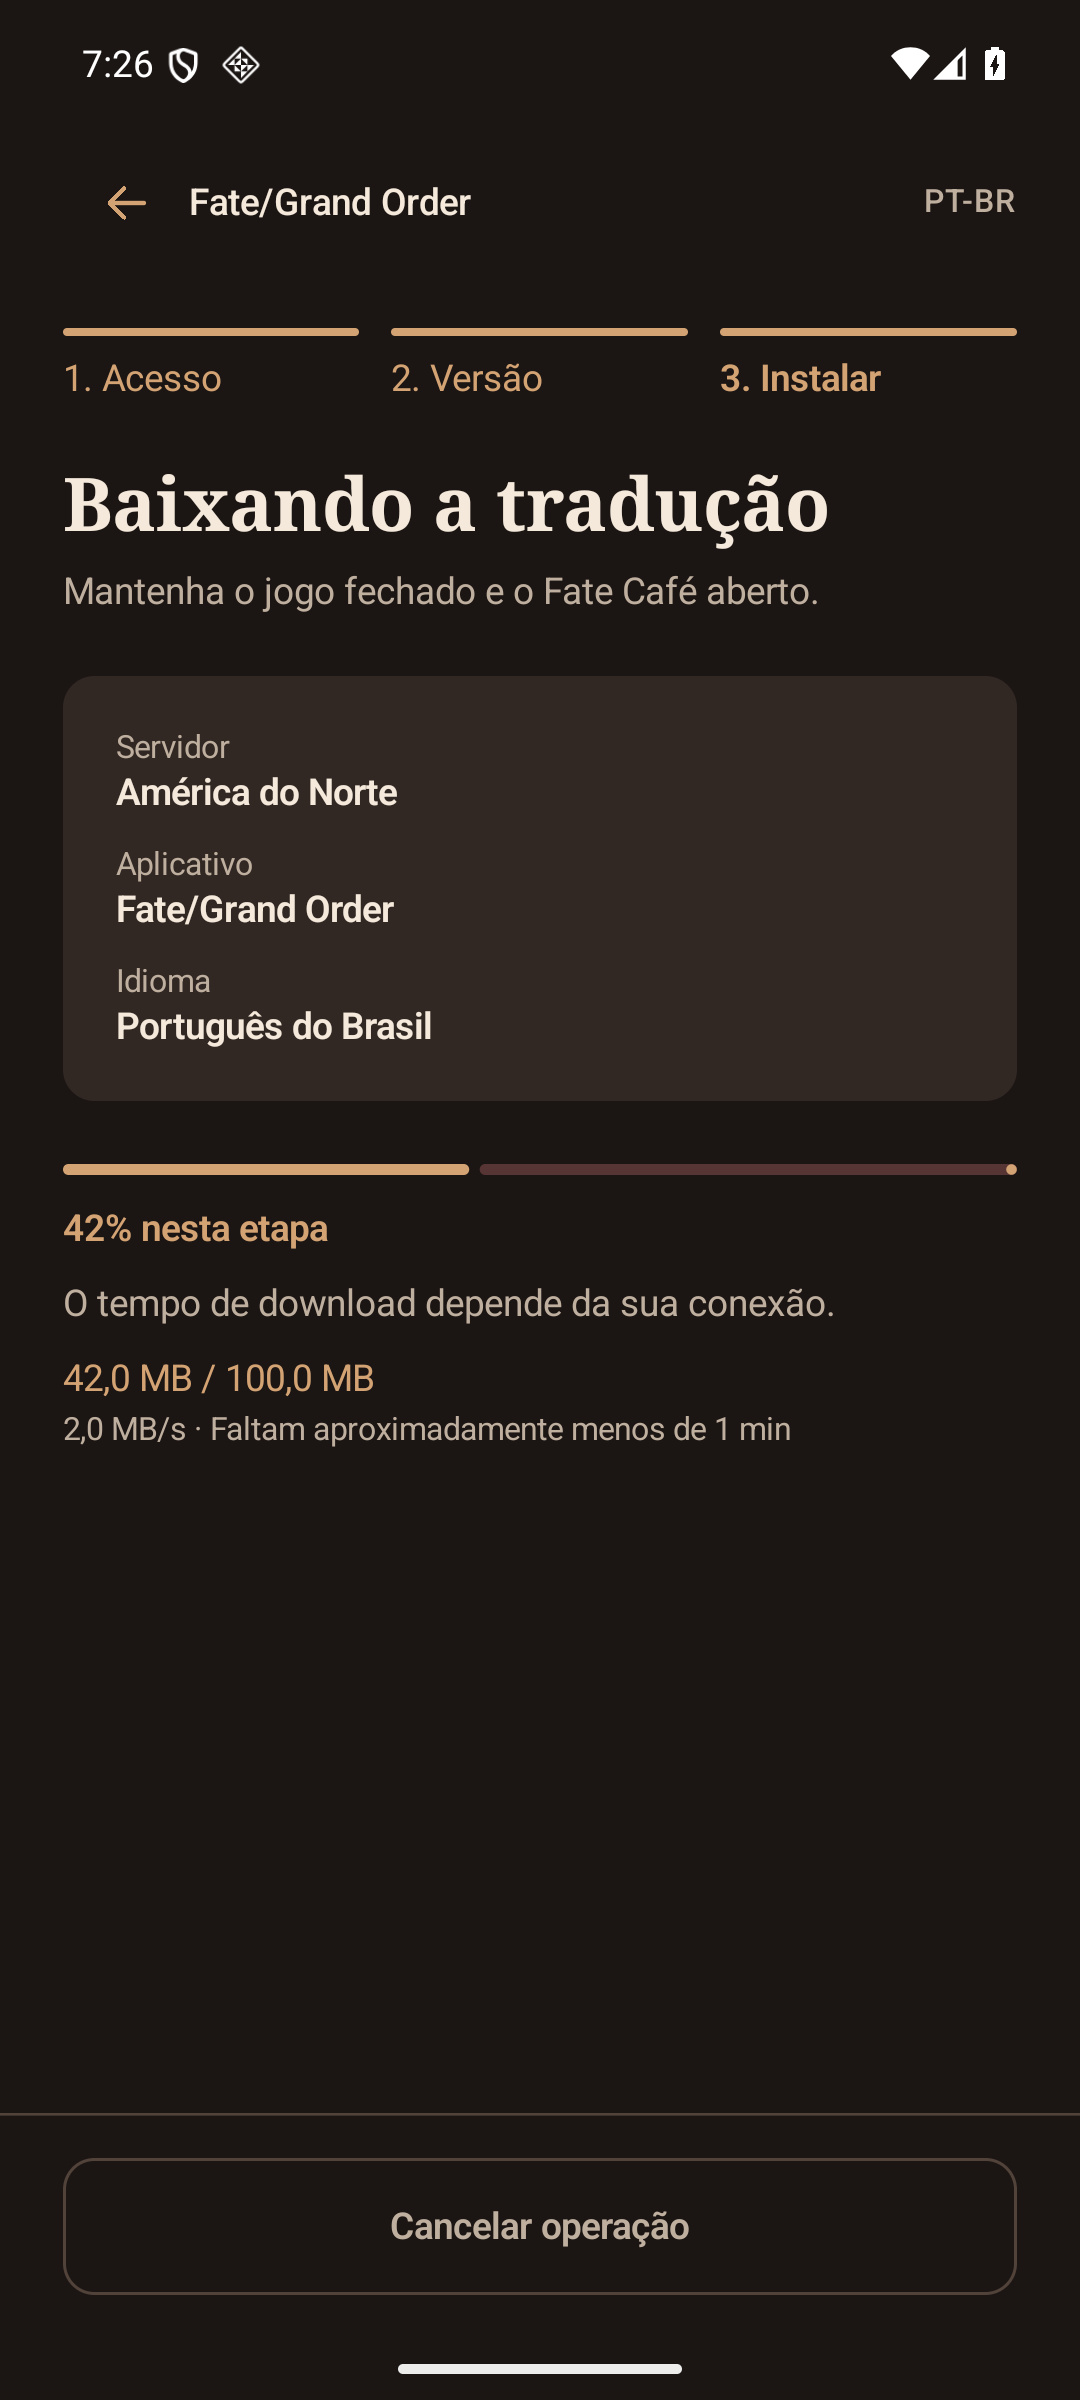
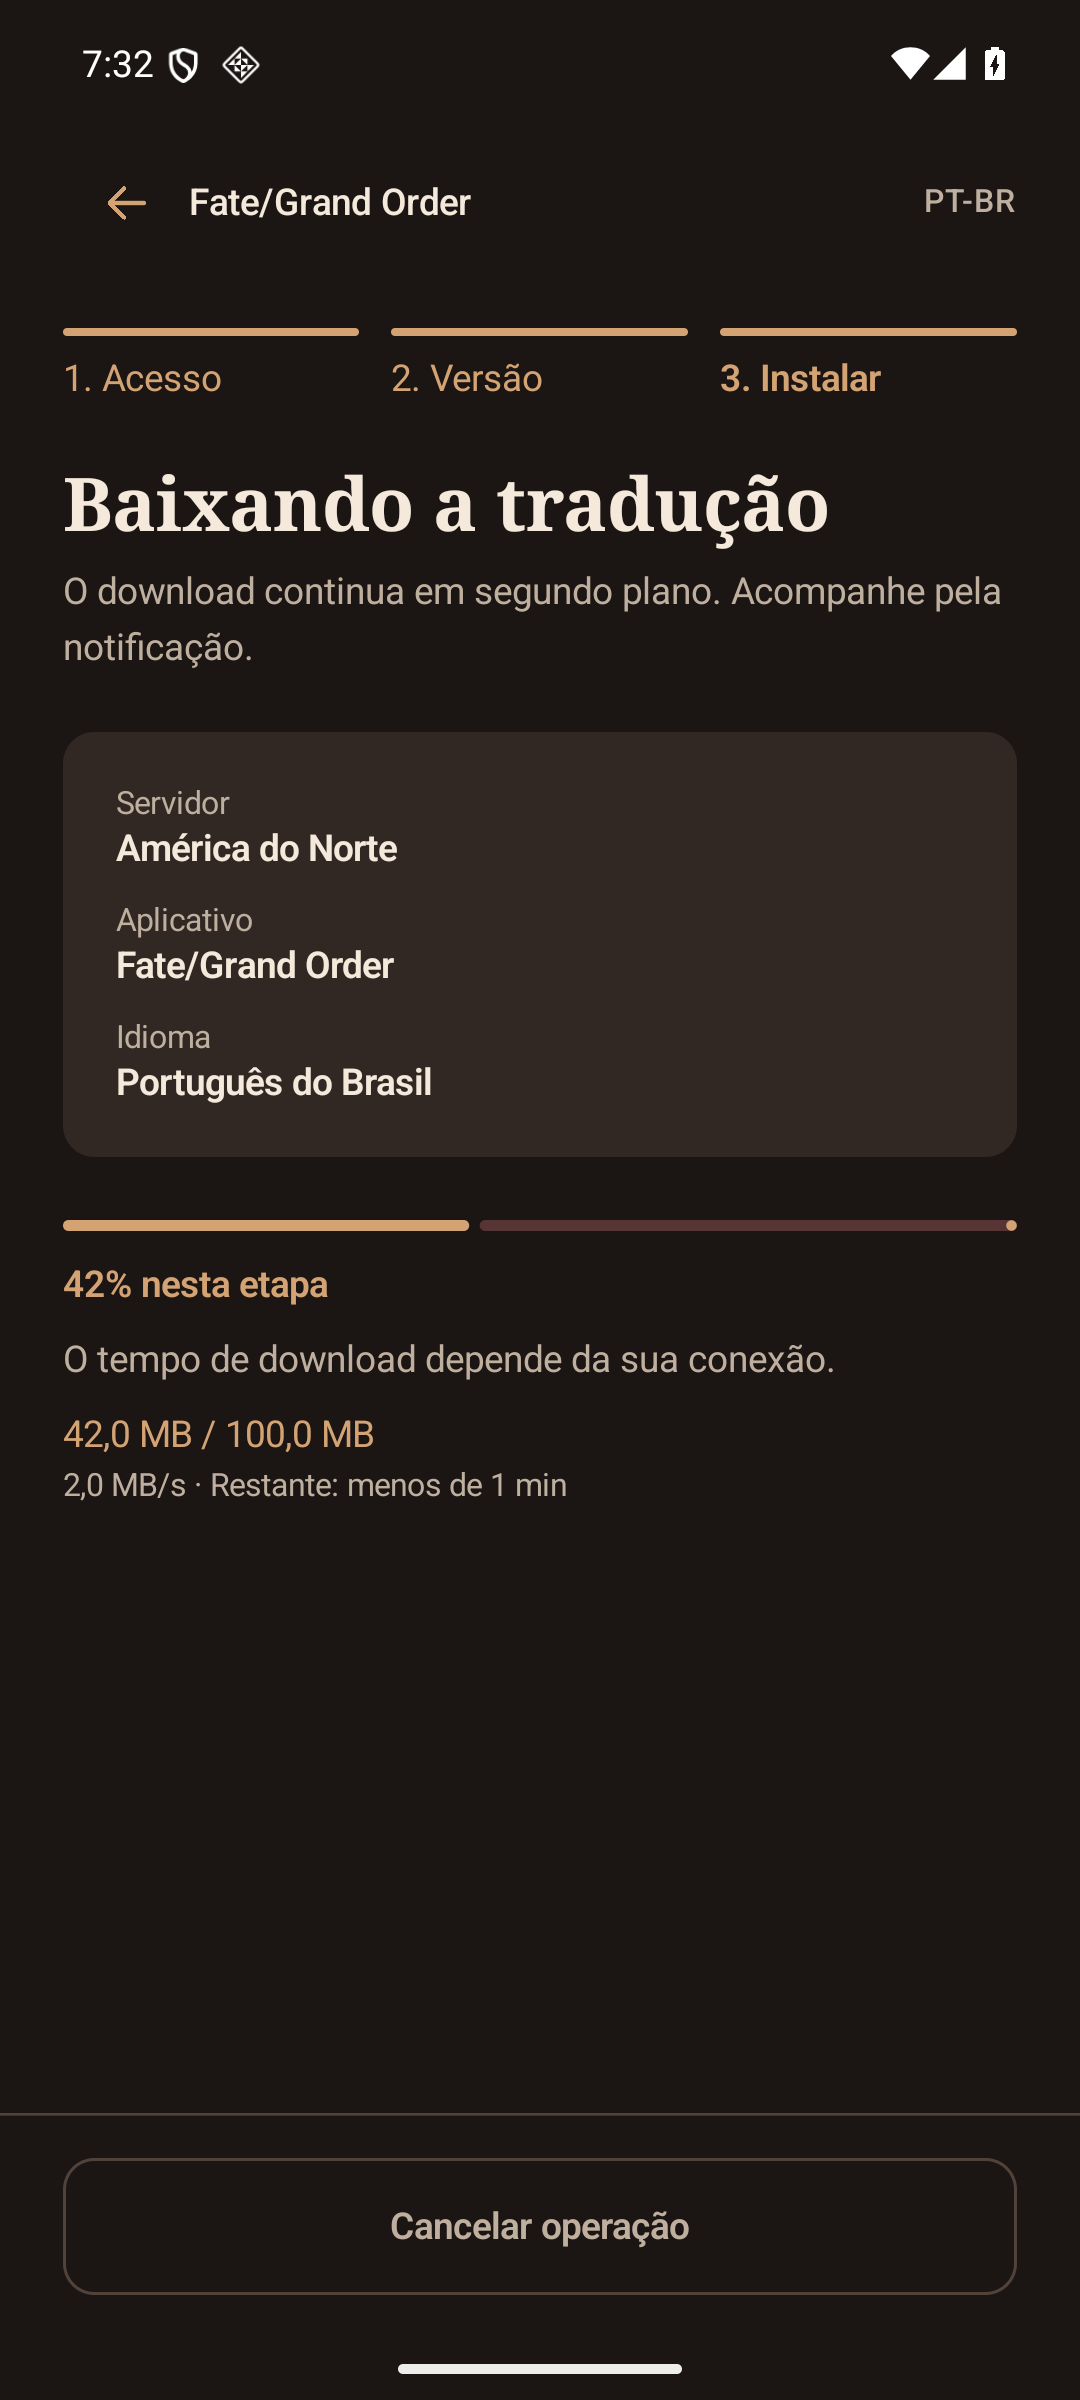
Refresh Android screenshots and document final validation

diff --git a/app/src/androidTest/java/dev/translate/installer/ui/InstallerFlowTest.kt b/app/src/androidTest/java/dev/translate/installer/ui/InstallerFlowTest.kt
@@ -131,7 +131,7 @@ class InstallerFlowTest {
     fun rememberedDestinationCanStillBeChanged() {
         launch(approved().copy(rememberedFgo = GameProfile.BETTER_NA))
         openFgo()
-        compose.onNodeWithText("Alterar versão do jogo").performClick()
+        compose.onNodeWithText("Alterar versão do jogo").performScrollTo().performClick()
         compose.onNodeWithText("Qual versão você joga?").performScrollTo().assertIsDisplayed()
         compose.onNodeWithText("América do Norte").assertIsSelected()
         compose.onNodeWithText("BetterFGO", substring = false).assertIsSelected()

diff --git a/docs/validation.md b/docs/validation.md
@@ -10,12 +10,35 @@ reportou zero erros e 14 avisos: seis de SDK/dependências e espaço livre já
 existentes, e oito sugestões de usar a extensão KTX para SharedPreferences.
 APK debug 0.8.0 (código 13), mínimo API 24 e alvo API 36. O código foi
 incrementado a partir da 0.7.3 já presente em `main`.
+Assinatura APK v2 verificada. SHA-256:
[1 lines of base64/hex data omitted]
 
 `testDebugUnitTest`: **95 testes, 92 aprovados, 2 falhas e 1 ignorado**.
 As falhas continuam sendo os dois casos de POSIX/symlink descritos abaixo;
 o teste de compatibilidade de produção exige ZIPs externos. Os 13 novos
 testes de transporte, retomada, cancelamento, velocidade e identidade da
 versão passaram. A retomada lê o checkpoint novamente em uma nova instância.
+
+No emulador Android 16 / API 36, 1080 × 2400, densidade 420 e fonte padrão:
+**14/14 testes Android passaram**. São 12 cenários de interface com estados
+controlados, um teste de preferências persistidas e um teste que inicia o
+serviço real, coloca a Activity fora da tela e cancela a transferência.
+Callbacks de uma geração cancelada são rejeitados. As capturas foram
+inspecionadas visualmente.
+
+Também passaram **4/4 cenários** em 840 × 1680 (320 × 640 dp), fonte a 130%:
+status/atualização no catálogo, alteração do destino lembrado, diagnóstico
+copiável e métricas de download/cancelamento. Os testes rolam até os controles
+fora da área visível antes de interagir; o rodapé continua acessível.
+
+O APK normal também foi aberto e consultou as Releases reais: JP `v20261111`,
+NA `v20261110` e Blue Archive Global `v20261026`. A captura inicial do catálogo
+vem dessa execução; as telas de atualização/instalação usam estados controlados.
+
+Uma primeira rodada sofreu interferência de um ANR do System UI do emulador
+durante concorrência com o build. Após liberar a janela e encerrar o Gradle,
+a rodada completa passou, incluindo acesso ao clipboard. As capturas dessa
+primeira rodada foram substituídas.
 
 A proteção de assinatura/manifesto e o motor transacional continuam exigidos
 antes da instalação. O serviço de download escreve somente no armazenamento

diff --git a/docs/interface.md b/docs/interface.md
@@ -12,8 +12,9 @@ com notificação e retomada. Veja [os detalhes dessas melhorias](downloads-and-
 ## Capturas
 
 Capturas da interface Compose executada no emulador Android 16 (API 36),
-1080 × 2400, densidade 420. Os testes fornecem estados controlados de
-autorização, pacote, progresso e recibo; não baixam traduções nem instalam
+1080 × 2400, densidade 420. O catálogo inicial foi capturado no aplicativo
+normal, após consultar as Releases reais. As demais telas usam testes com
+estados controlados de autorização, pacote, progresso e recibo; não instalam
 arquivos de jogos. As telas de conclusão demonstram a interface desse estado,
 e não uma instalação real concluída no emulador.
 
